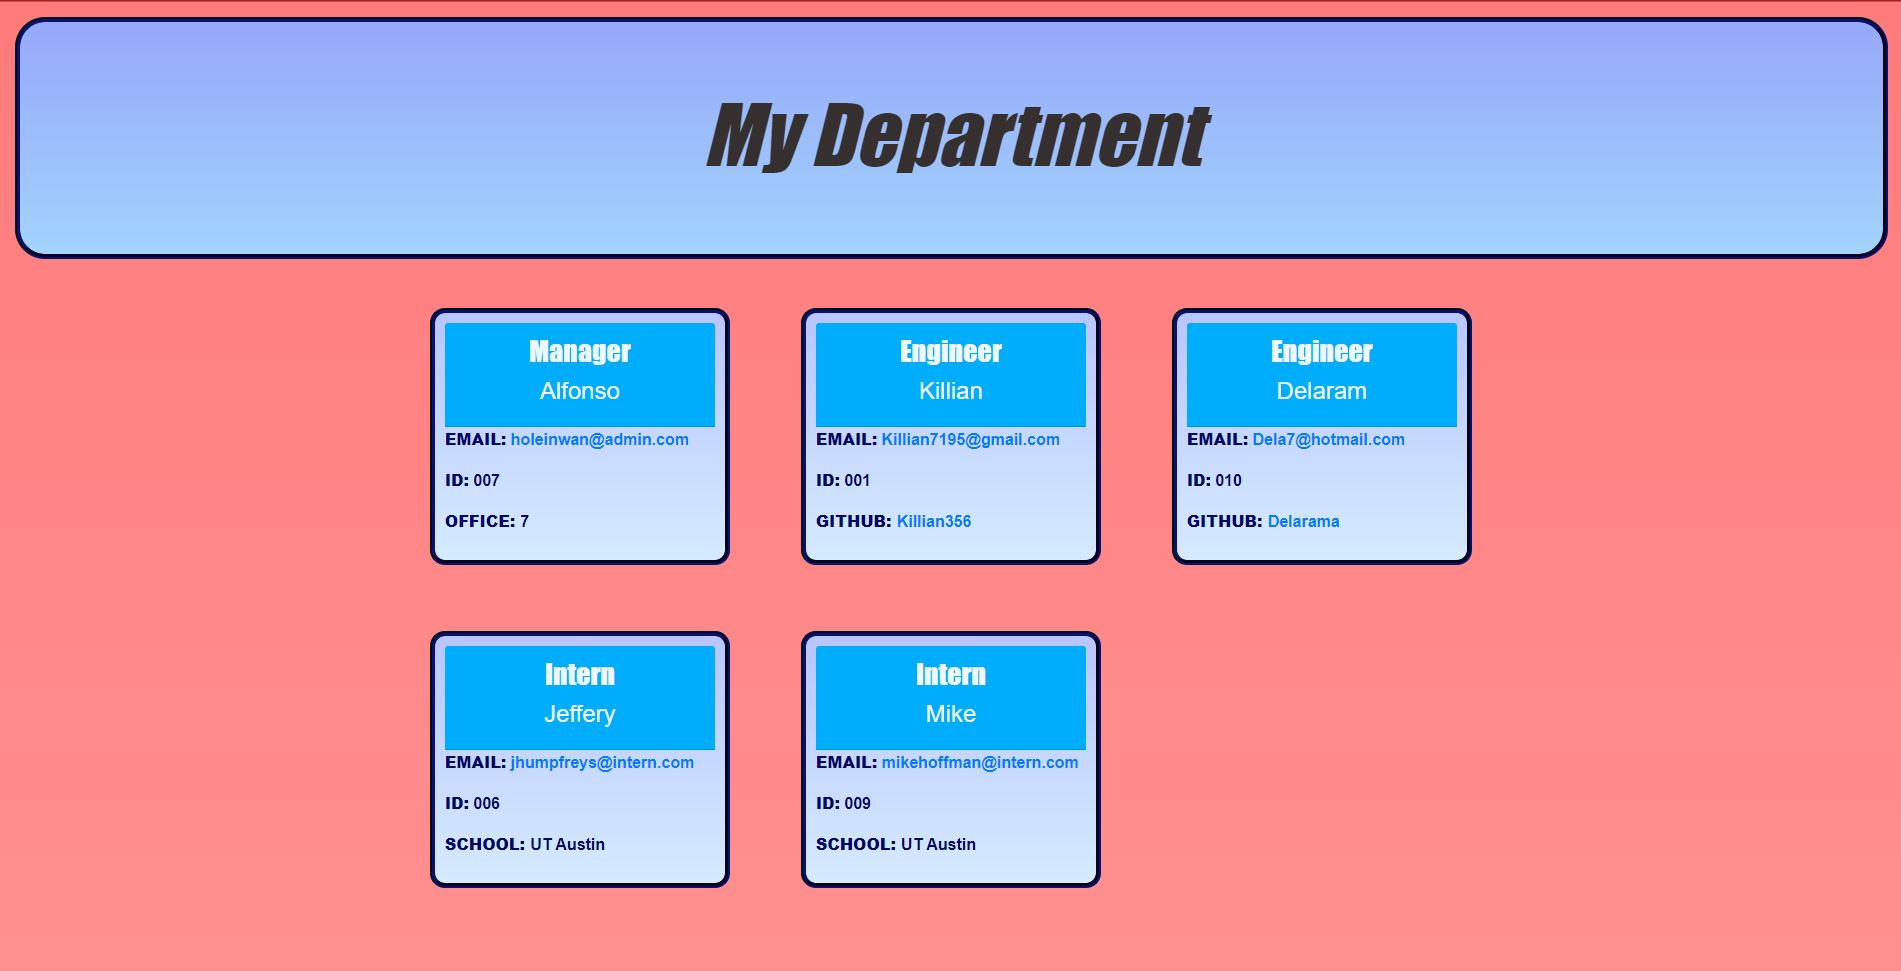
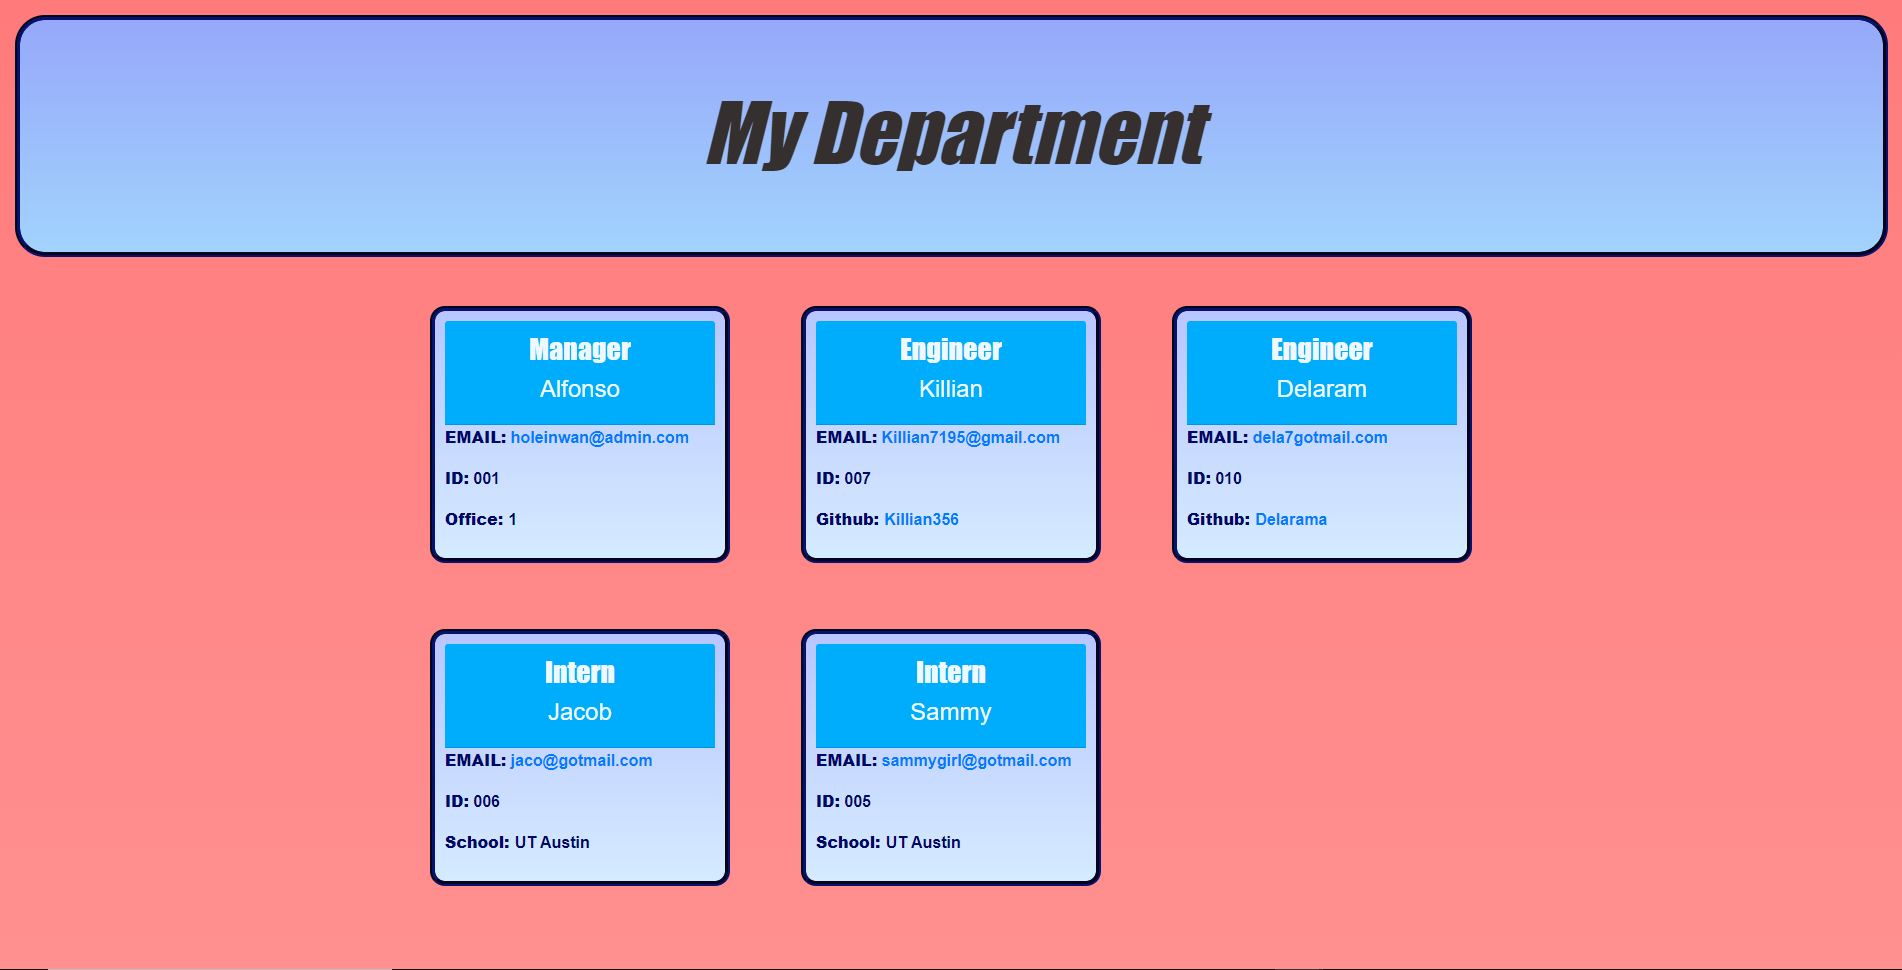
added new tutorial, and finished readme

diff --git a/dist/My Department.html b/dist/My Department.html
@@ -8,7 +8,6 @@
     <meta name="description" content="Learn more about the best team: My Department">
     <link rel="stylesheet" href="https://stackpath.bootstrapcdn.com/bootstrap/4.3.1/css/bootstrap.min.css" integrity="sha384-ggOyR0iXCbMQv3Xipma34MD+dH/1fQ784/j6cY/iJTQUOhcWr7x9JvoRxT2MZw1T" crossorigin="anonymous" />
     <link rel="preconnect" href="https://fonts.gstatic.com">
-    <link href="https://fonts.googleapis.com/css2?family=Montserrat&display=swap" rel="stylesheet">
     <script src="https://kit.fontawesome.com/c502137733.js"></script>
     <meta name='viewport' content='width=device-width, initial-scale=1'>
     <script src='https://kit.fontawesome.com/a076d05399.js' crossorigin='anonymous'></script>
@@ -31,7 +30,7 @@
 
           <div class="card-content">
             <p><strong>EMAIL:</strong> <a href="mailto:holeinwan@admin.com">holeinwan@admin.com</a></p>
-            <p><strong>ID:</strong> 007</p><p><strong>OFFICE: </strong> 7</p></div></div>
+            <p><strong>ID:</strong> 001</p><p><strong>Office: </strong> 1</p></div></div>
       <div class="card">
         <div class="card-header">
         <h3>Engineer</h3>
@@ -40,7 +39,7 @@
 
           <div class="card-content">
             <p><strong>EMAIL:</strong> <a href="mailto:Killian7195@gmail.com">Killian7195@gmail.com</a></p>
-            <p><strong>ID:</strong> 001</p><p><strong>GITHUB: </strong> <a href="https://github.com/Killian356" target="_blank">Killian356</a></p></div></div>
+            <p><strong>ID:</strong> 007</p><p><strong>Github: </strong> <a href="https://github.com/Killian356" target="_blank">Killian356</a></p></div></div>
       <div class="card">
         <div class="card-header">
         <h3>Engineer</h3>
@@ -48,23 +47,23 @@
         </div>
 
           <div class="card-content">
-            <p><strong>EMAIL:</strong> <a href="mailto:Dela7@hotmail.com">Dela7@hotmail.com</a></p>
-            <p><strong>ID:</strong> 010</p><p><strong>GITHUB: </strong> <a href="https://github.com/Delarama" target="_blank">Delarama</a></p></div></div>
+            <p><strong>EMAIL:</strong> <a href="mailto:dela7gotmail.com">dela7gotmail.com</a></p>
+            <p><strong>ID:</strong> 010</p><p><strong>Github: </strong> <a href="https://github.com/Delarama" target="_blank">Delarama</a></p></div></div>
       <div class="card">
         <div class="card-header">
         <h3>Intern</h3>
-        <h4>Jeffery</h4>
+        <h4>Jacob</h4>
         </div>
 
           <div class="card-content">
-            <p><strong>EMAIL:</strong> <a href="mailto:jhumpfreys@intern.com">jhumpfreys@intern.com</a></p>
-            <p><strong>ID:</strong> 006</p><p><strong>SCHOOL: </strong> UT Austin</p></div></div>
+            <p><strong>EMAIL:</strong> <a href="mailto:jaco@gotmail.com">jaco@gotmail.com</a></p>
+            <p><strong>ID:</strong> 006</p><p><strong>School: </strong> UT Austin</p></div></div>
       <div class="card">
         <div class="card-header">
         <h3>Intern</h3>
-        <h4>Mike</h4>
+        <h4>Sammy</h4>
         </div>
 
           <div class="card-content">
-            <p><strong>EMAIL:</strong> <a href="mailto:mikehoffman@intern.com">mikehoffman@intern.com</a></p>
-            <p><strong>ID:</strong> 009</p><p><strong>SCHOOL: </strong> UT Austin</p></div></div></div></body></html>
+            <p><strong>EMAIL:</strong> <a href="mailto:sammygirl@gotmail.com">sammygirl@gotmail.com</a></p>
+            <p><strong>ID:</strong> 005</p><p><strong>School: </strong> UT Austin</p></div></div></div></body></html>

diff --git a/README.md b/README.md
@@ -23,4 +23,4 @@ Made with ❤ by Killian Chamberlain
 
 ### Video Demonstation
 
-https://watch.screencastify.com/v/qoGrurzwO0wOu4HlILYl
+https://watch.screencastify.com/v/cly3Cr10uz3l5Zo0mm6R
